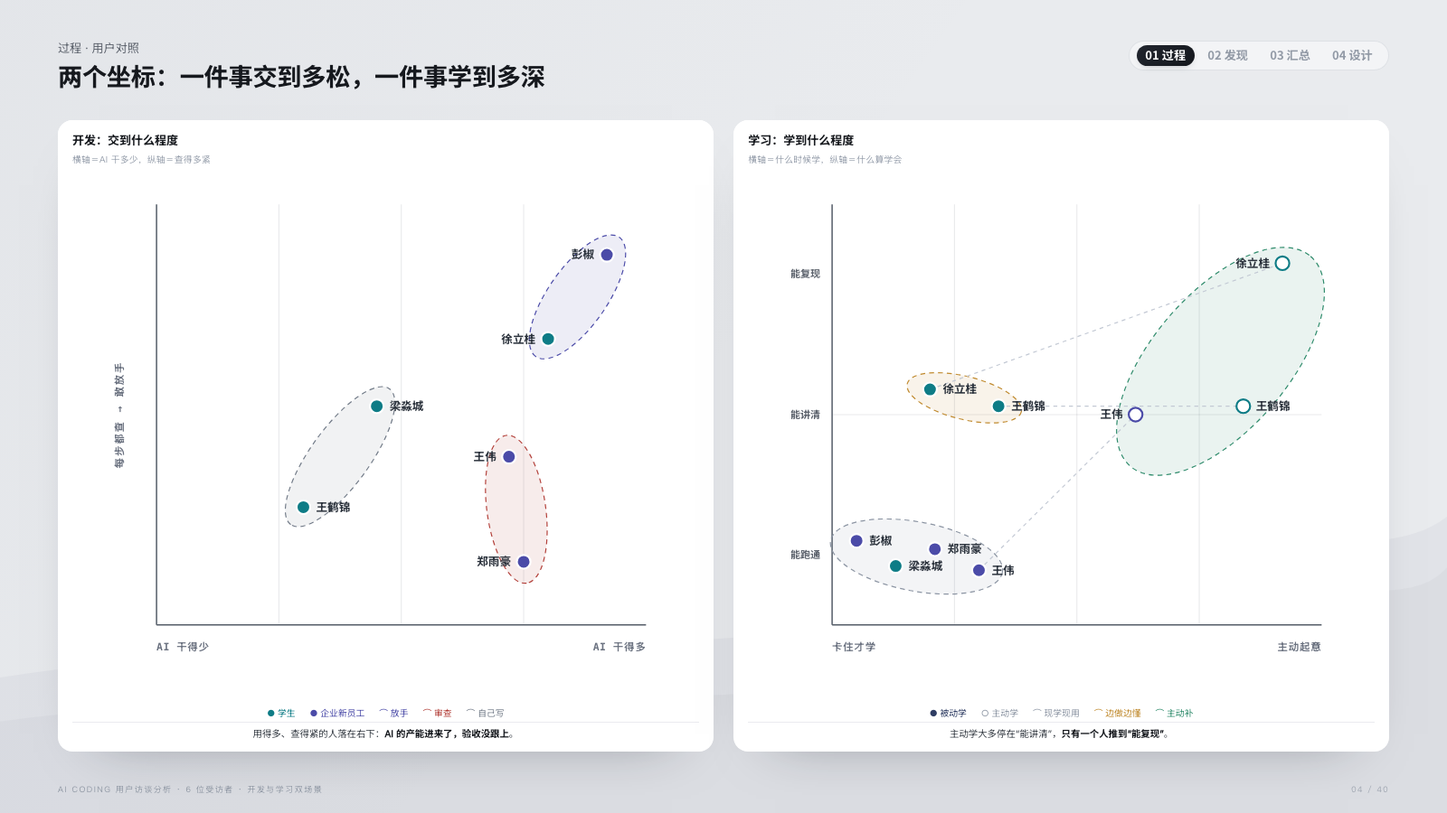
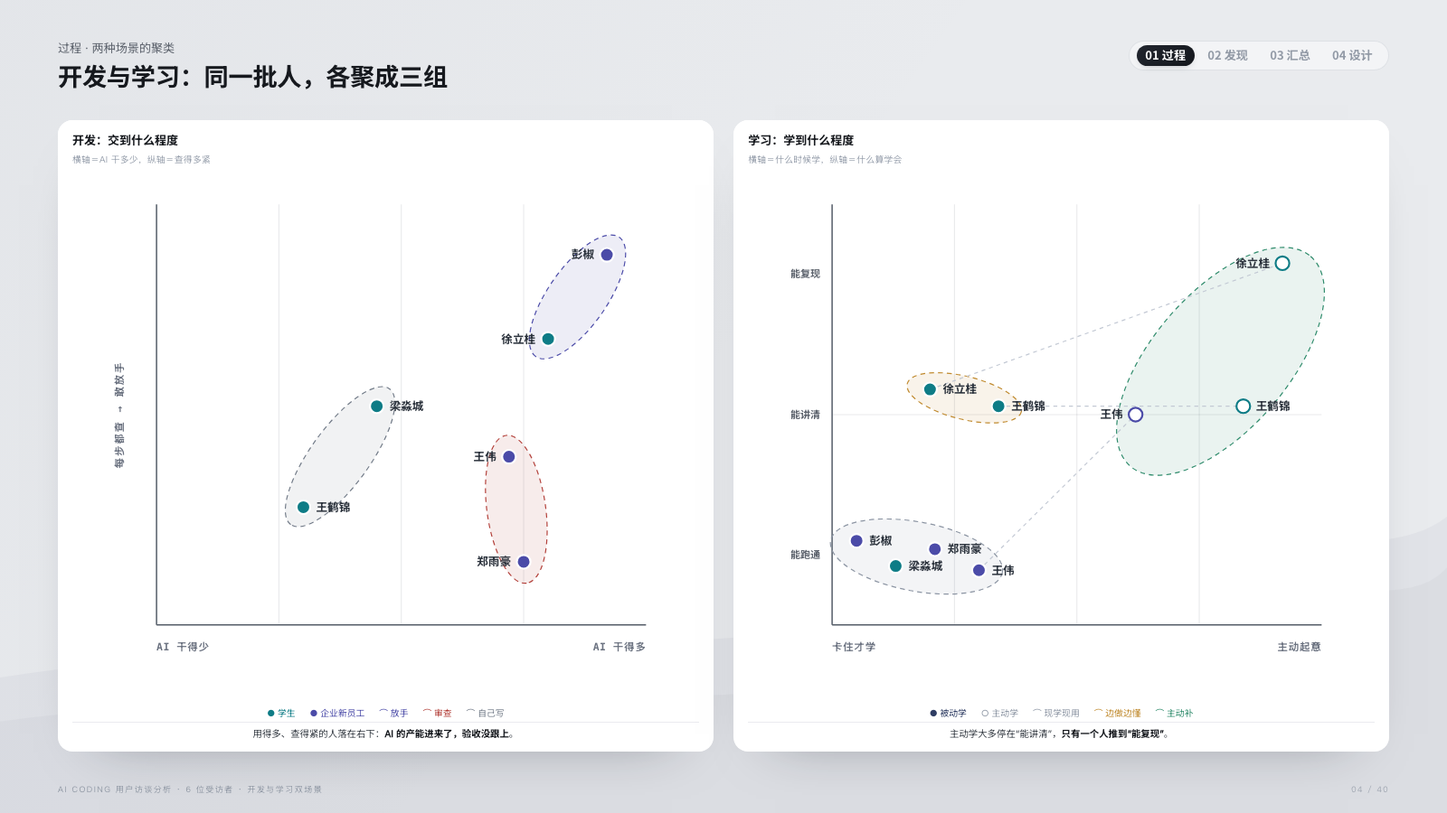
copy: 双坐标页标题改为聚类口径——同一批人，开发与学习各聚成三组

Changed region(s): [[0.0312, 0.0311, 0.375, 0.1244]]

diff --git a/outputs/019fc599-4de5-77a1-9612-6cbb4caa6090/AI-Coding访谈分析/_proto/介入方式对比.html b/outputs/019fc599-4de5-77a1-9612-6cbb4caa6090/AI-Coding访谈分析/_proto/介入方式对比.html
@@ -1171,7 +1171,7 @@ body.overview #panel,body.overview #toggle{display:none!important}
   <div class="tl-legend"><span><i class="dot2"></i>深度介入</span><span><i class="dot1"></i>轻介入 / 抽查</span><span>线＝这段在他的视野里</span></div>
   <div class="proto-take">彭椒和王伟是两个极端：<b>一个只在终点回来，一个每一步都在</b>；中间的人按任务风险各不相同。</div>
   <div class="proto-note">介入点由研究者据访谈整理；同一阶段内不区分先后顺序。</div>
-</div></div><div class="pfoot"><span>AI Coding 用户访谈分析 · 6 位受访者 · 开发与学习双场景</span></div></section><section class="slide s-gray"><div class="head"><div class="head-l"><div class="brand"><span class="ttl">一条任务的全景：AI 卡在工具和知识之间</span></div><div class="subttl">过程 · 全景（七类参与者）</div></div><div class="section-tabs" aria-label="当前章节"><span class="">01 过程</span><span class="">02 发现</span><span class="active">03 汇总</span><span class="">04 设计</span></div></div><div class="body-area"><div class="seq2"><div class="seq2-main"><svg viewBox="0 0 1600 842" role="img" aria-label="一条任务的全景：AI 卡在工具和知识之间" font-family="HarmonyOS Sans SC, Noto Sans SC, sans-serif"><defs><marker id="arr" viewBox="0 0 10 10" refX="9" refY="5" markerWidth="7" markerHeight="7" orient="auto"><path d="M0,0 L10,5 L0,10" fill="none" stroke="#8C97A5" stroke-width="1.6"/></marker><marker id="arrLoop" viewBox="0 0 10 10" refX="9" refY="5" markerWidth="7" markerHeight="7" orient="auto"><path d="M0,0 L10,5 L0,10" fill="none" stroke="#2F5FA8" stroke-width="1.6"/></marker><marker id="arrRed" viewBox="0 0 10 10" refX="9" refY="5" markerWidth="7" markerHeight="7" orient="auto"><path d="M0,0 L10,5 L0,10" fill="none" stroke="#C0392B" stroke-width="1.6"/></marker></defs><rect x="8" y="69" width="118" height="108" rx="7" fill="#FFFFFF" fill-opacity=".5"/><circle cx="14" cy="82" r="3.4" fill="#2F3D63"/><text x="22" y="87" font-size="11.5" fill="#2F3844">01 开工</text><text x="22" y="102" font-size="9.5" fill="#2F3D63">人主导</text><rect x="8" y="177" width="118" height="156" rx="7" fill="#FFFFFF" fill-opacity=".5"/><circle cx="14" cy="190" r="3.4" fill="#2F3D63"/><text x="22" y="195" font-size="11.5" fill="#2F3844">02 找知识</text><text x="22" y="210" font-size="9.5" fill="#2F3D63">人主导</text><rect x="8" y="333" width="118" height="108" rx="7" fill="#FFFFFF" fill-opacity=".5"/><circle cx="14" cy="346" r="3.4" fill="#2F3D63"/><text x="22" y="351" font-size="11.5" fill="#2F3844">03 交办</text><text x="22" y="366" font-size="9.5" fill="#2F3D63">人主导</text><rect x="8" y="441" width="118" height="108" rx="7" fill="#FFFFFF" fill-opacity=".5"/><circle cx="14" cy="454" r="3.4" fill="#6B5BA8"/><text x="22" y="459" font-size="11.5" fill="#2F3844">04 AI 执行</text><text x="22" y="474" font-size="9.5" fill="#6B5BA8">AI 主导</text><rect x="8" y="549" width="118" height="142" rx="7" fill="#FFFFFF" fill-opacity=".5"/><circle cx="14" cy="562" r="3.4" fill="#2F3D63"/><text x="22" y="567" font-size="11.5" fill="#2F3844">05 验收</text><text x="22" y="582" font-size="9.5" fill="#2F3D63">人主导</text><rect x="8" y="691" width="118" height="132" rx="7" fill="#FFFFFF" fill-opacity=".5"/><circle cx="14" cy="704" r="3.4" fill="#2F3D63"/><text x="22" y="709" font-size="11.5" fill="#2F3844">06 沉淀</text><text x="22" y="724" font-size="9.5" fill="#2F3D63">人主导</text><line x1="248.0" y1="56" x2="248.0" y2="836" stroke="#B4BDC9" stroke-width="1.3" stroke-dasharray="5 4"/><rect x="174.0" y="14" width="148" height="34" rx="9" fill="#2F3D63"/><text x="248.0" y="36" font-size="13.5" font-weight="600" fill="#fff" text-anchor="middle">开发者</text><line x1="452.0" y1="56" x2="452.0" y2="836" stroke="#B4BDC9" stroke-width="1.3" stroke-dasharray="5 4"/><rect x="378.0" y="14" width="148" height="34" rx="9" fill="#6B5BA8"/><text x="452.0" y="36" font-size="13.5" font-weight="600" fill="#fff" text-anchor="middle">AI 助手</text><line x1="656.0" y1="56" x2="656.0" y2="836" stroke="#B4BDC9" stroke-width="1.3" stroke-dasharray="5 4"/><rect x="582.0" y="14" width="148" height="34" rx="9" fill="#3F7D72"/><text x="656.0" y="36" font-size="13.5" font-weight="600" fill="#fff" text-anchor="middle">环境与工具</text><line x1="860.0" y1="56" x2="860.0" y2="836" stroke="#B4BDC9" stroke-width="1.3" stroke-dasharray="5 4"/><rect x="786.0" y="14" width="148" height="34" rx="9" fill="#8A6A3C"/><text x="860.0" y="36" font-size="13.5" font-weight="600" fill="#fff" text-anchor="middle">昇腾社区官网</text><line x1="1064.0" y1="56" x2="1064.0" y2="836" stroke="#B4BDC9" stroke-width="1.3" stroke-dasharray="5 4"/><rect x="990.0" y="14" width="148" height="34" rx="9" fill="#7B8A3C"/><text x="1064.0" y="36" font-size="13.5" font-weight="600" fill="#fff" text-anchor="middle">GitHub / GitCode</text><line x1="1268.0" y1="56" x2="1268.0" y2="836" stroke="#B4BDC9" stroke-width="1.3" stroke-dasharray="5 4"/><rect x="1194.0" y="14" width="148" height="34" rx="9" fill="#9C6B8A"/><text x="1268.0" y="36" font-size="13.5" font-weight="600" fill="#fff" text-anchor="middle">其他知识来源</text><line x1="1472.0" y1="56" x2="1472.0" y2="836" stroke="#B4BDC9" stroke-width="1.3" stroke-dasharray="5 4"/><rect x="1398.0" y="14" width="148" height="34" rx="9" fill="#45536B"/><text x="1472.0" y="36" font-size="13.5" font-weight="600" fill="#fff" text-anchor="middle">团队</text><g><title>企业接需求单，学生从课题里切出能做的任务</title><rect x="164.0" y="78" width="168" height="30" rx="8" fill="#fff" stroke="#2F3D63" stroke-width="1.4"/><text x="248.0" y="97" font-size="11.5" fill="#2C333B" text-anchor="middle">接需求 / 切题目</text></g><g><title>开发者 → 团队：要需求与验收标准</title><line x1="261.0" y1="130" x2="1461.0" y2="130" stroke="#8C97A5" stroke-width="1.8" marker-end="url(#arr)"/><text x="274.0" y="122" font-size="10.5" fill="#2F3844" text-anchor="start">要需求与验收标准</text><circle cx="248.0" cy="130" r="9" fill="#fff" stroke="#2F3D63" stroke-width="1.6"/><text x="248.0" y="133" font-size="8" font-weight="700" fill="#2F3D63" text-anchor="middle">E1</text></g><g><title>团队 → 开发者：需求单 / 导师目标</title><line x1="1459.0" y1="154" x2="259.0" y2="154" stroke="#8C97A5" stroke-width="1.8" marker-end="url(#arr)"/><text x="1446.0" y="146" font-size="10.5" fill="#2F3844" text-anchor="end">需求单 / 导师目标</text><circle cx="1472.0" cy="154" r="9" fill="#fff" stroke="#45536B" stroke-width="1.6"/><text x="1472.0" y="157" font-size="8" font-weight="700" fill="#45536B" text-anchor="middle">E1</text></g><g><title>"单个 API 有文档，API 之间怎么配合没有"——两份知识要人拼起来</title><rect x="164.0" y="186" width="168" height="30" rx="8" fill="#fff" stroke="#2F3D63" stroke-width="1.4"/><text x="248.0" y="205" font-size="11.5" fill="#2C333B" text-anchor="middle">自己查：官网看定义，仓库看用法</text></g><g><title>开发者 → 昇腾社区官网：查接口 / 工具指南</title><line x1="261.0" y1="238" x2="849.0" y2="238" stroke="#8C97A5" stroke-width="1.8" marker-end="url(#arr)"/><text x="274.0" y="230" font-size="10.5" fill="#2F3844" text-anchor="start">查接口 / 工具指南</text><circle cx="248.0" cy="238" r="9" fill="#fff" stroke="#2F3D63" stroke-width="1.6"/><text x="248.0" y="241" font-size="8" font-weight="700" fill="#2F3D63" text-anchor="middle">E2</text></g><g><title>昇腾社区官网 → 开发者：定义、参数、限制</title><line x1="847.0" y1="262" x2="259.0" y2="262" stroke="#8C97A5" stroke-width="1.8" marker-end="url(#arr)"/><text x="834.0" y="254" font-size="10.5" fill="#2F3844" text-anchor="end">定义、参数、限制</text><circle cx="860.0" cy="262" r="9" fill="#fff" stroke="#8A6A3C" stroke-width="1.6"/><text x="860.0" y="265" font-size="8" font-weight="700" fill="#8A6A3C" text-anchor="middle">E2</text></g><g><title>开发者 → GitHub / GitCode：找样例、翻 issue</title><line x1="261.0" y1="286" x2="1053.0" y2="286" stroke="#8C97A5" stroke-width="1.8" marker-end="url(#arr)"/><text x="274.0" y="278" font-size="10.5" fill="#2F3844" text-anchor="start">找样例、翻 issue</text><circle cx="248.0" cy="286" r="9" fill="#fff" stroke="#2F3D63" stroke-width="1.6"/><text x="248.0" y="289" font-size="8" font-weight="700" fill="#2F3D63" text-anchor="middle">E2</text></g><g><title>GitHub / GitCode → 开发者：别人怎么组合</title><line x1="1051.0" y1="310" x2="259.0" y2="310" stroke="#8C97A5" stroke-width="1.8" marker-end="url(#arr)"/><text x="1038.0" y="302" font-size="10.5" fill="#2F3844" text-anchor="end">别人怎么组合</text><circle cx="1064.0" cy="310" r="9" fill="#fff" stroke="#7B8A3C" stroke-width="1.6"/><text x="1064.0" y="313" font-size="8" font-weight="700" fill="#7B8A3C" text-anchor="middle">E2</text></g><g><title>详设 + 文档片段 + 样例链接，全靠人贴</title><rect x="164.0" y="342" width="168" height="30" rx="8" fill="#fff" stroke="#2F3D63" stroke-width="1.4"/><text x="248.0" y="361" font-size="11.5" fill="#2C333B" text-anchor="middle">把知识搬进对话</text></g><g><title>开发者 → 其他知识来源：查论文 / 内部 wiki</title><line x1="261.0" y1="394" x2="1257.0" y2="394" stroke="#8C97A5" stroke-width="1.8" marker-end="url(#arr)"/><text x="274.0" y="386" font-size="10.5" fill="#2F3844" text-anchor="start">查论文 / 内部 wiki</text><circle cx="248.0" cy="394" r="9" fill="#fff" stroke="#2F3D63" stroke-width="1.6"/><text x="248.0" y="397" font-size="8" font-weight="700" fill="#2F3D63" text-anchor="middle">E3</text></g><g><title>开发者 → AI 助手：AI 拿到的是人加工过的二手知识</title><line x1="261.0" y1="418" x2="441.0" y2="418" stroke="#C0392B" stroke-width="1.8" marker-end="url(#arrRed)"/><text x="274.0" y="410" font-size="10.5" fill="#B3403A" text-anchor="start">贴详设 + 文档 + 样例</text><circle cx="248.0" cy="418" r="9" fill="#fff" stroke="#2F3D63" stroke-width="1.6"/><text x="248.0" y="421" font-size="8" font-weight="700" fill="#2F3D63" text-anchor="middle">E3</text></g><g><title>AI 能碰到的是文件系统和终端，碰不到专业工具与文档站</title><rect x="368.0" y="450" width="168" height="30" rx="8" fill="#fff" stroke="#6B5BA8" stroke-width="1.4"/><text x="452.0" y="469" font-size="11.5" fill="#2C333B" text-anchor="middle">读仓库、写、跑</text></g><g><title>AI 助手 → 环境与工具：读文件 / 跑命令</title><line x1="465.0" y1="502" x2="645.0" y2="502" stroke="#8C97A5" stroke-width="1.8" marker-end="url(#arr)"/><text x="478.0" y="494" font-size="10.5" fill="#2F3844" text-anchor="start">读文件 / 跑命令</text><circle cx="452.0" cy="502" r="9" fill="#fff" stroke="#6B5BA8" stroke-width="1.6"/><text x="452.0" y="505" font-size="8" font-weight="700" fill="#6B5BA8" text-anchor="middle">E4</text></g><g><title>环境与工具 → AI 助手：报错与日志</title><line x1="643.0" y1="526" x2="463.0" y2="526" stroke="#8C97A5" stroke-width="1.8" marker-end="url(#arr)"/><text x="630.0" y="518" font-size="10.5" fill="#2F3844" text-anchor="end">报错与日志</text><circle cx="656.0" cy="526" r="9" fill="#fff" stroke="#3F7D72" stroke-width="1.6"/><text x="656.0" y="529" font-size="8" font-weight="700" fill="#3F7D72" text-anchor="middle">E4</text></g><g><title>精度对 golden、性能对 baseline，人看工具输出下判断</title><rect x="240.5" y="568" width="15" height="34" rx="7" fill="#C79433"/><text x="248.0" y="563" font-size="10.8" fill="#5A4212" text-anchor="middle">过没过？</text></g><g><title>开发者 → 环境与工具：跑测试 / msOpProf / Insight</title><line x1="261.0" y1="616" x2="645.0" y2="616" stroke="#8C97A5" stroke-width="1.8" marker-end="url(#arr)"/><text x="274.0" y="608" font-size="10.5" fill="#2F3844" text-anchor="start">跑测试 / msOpProf / Insight</text><circle cx="248.0" cy="616" r="9" fill="#fff" stroke="#2F3D63" stroke-width="1.6"/><text x="248.0" y="619" font-size="8" font-weight="700" fill="#2F3D63" text-anchor="middle">E5</text></g><g><title>环境与工具 → 开发者：指标与指令流水</title><line x1="643.0" y1="640" x2="259.0" y2="640" stroke="#8C97A5" stroke-width="1.8" marker-end="url(#arr)"/><text x="630.0" y="632" font-size="10.5" fill="#2F3844" text-anchor="end">指标与指令流水</text><circle cx="656.0" cy="640" r="9" fill="#fff" stroke="#3F7D72" stroke-width="1.6"/><text x="656.0" y="643" font-size="8" font-weight="700" fill="#3F7D72" text-anchor="middle">E5</text></g><g><title>开发者 → AI 助手：工具输出没有直接进 AI 上下文</title><line x1="261.0" y1="664" x2="441.0" y2="664" stroke="#C0392B" stroke-width="1.8" marker-end="url(#arrRed)"/><text x="274.0" y="656" font-size="10.5" fill="#B3403A" text-anchor="start">把性能数据贴回来让它改</text><circle cx="248.0" cy="664" r="9" fill="#fff" stroke="#2F3D63" stroke-width="1.6"/><text x="248.0" y="667" font-size="8" font-weight="700" fill="#2F3D63" text-anchor="middle">E5</text></g><g><title>详设回写、wiki 沉淀、committer 检视</title><rect x="164.0" y="700" width="168" height="30" rx="8" fill="#fff" stroke="#2F3D63" stroke-width="1.4"/><text x="248.0" y="719" font-size="11.5" fill="#2C333B" text-anchor="middle">写回、提 PR、等评审</text></g><g><title>开发者 → 团队：提 PR，等 committer</title><line x1="261.0" y1="752" x2="1461.0" y2="752" stroke="#8C97A5" stroke-width="1.8" marker-end="url(#arr)"/><text x="274.0" y="744" font-size="10.5" fill="#2F3844" text-anchor="start">提 PR，等 committer</text><circle cx="248.0" cy="752" r="9" fill="#fff" stroke="#2F3D63" stroke-width="1.6"/><text x="248.0" y="755" font-size="8" font-weight="700" fill="#2F3D63" text-anchor="middle">E6</text></g><g><title>团队 → 开发者：评审意见</title><line x1="1459.0" y1="776" x2="259.0" y2="776" stroke="#8C97A5" stroke-width="1.8" marker-end="url(#arr)"/><text x="1446.0" y="768" font-size="10.5" fill="#2F3844" text-anchor="end">评审意见</text><circle cx="1472.0" cy="776" r="9" fill="#fff" stroke="#45536B" stroke-width="1.6"/><text x="1472.0" y="779" font-size="8" font-weight="700" fill="#45536B" text-anchor="middle">E6</text></g><g><title>开发者 → 其他知识来源：沉淀到 wiki / 设计文档</title><line x1="261.0" y1="800" x2="1257.0" y2="800" stroke="#8C97A5" stroke-width="1.8" marker-end="url(#arr)"/><text x="274.0" y="792" font-size="10.5" fill="#2F3844" text-anchor="start">沉淀到 wiki / 设计文档</text><circle cx="248.0" cy="800" r="9" fill="#fff" stroke="#2F3D63" stroke-width="1.6"/><text x="248.0" y="803" font-size="8" font-weight="700" fill="#2F3D63" text-anchor="middle">E6</text></g></svg></div><aside class="seq2-rail"><div class="sr-i"><div class="sr-k">出现条件</div><div class="sr-v">一条真实任务从需求走到合入。<b>AI 只连到文件系统和终端</b>，专业工具与知识源都在它够不到的地方。</div></div><div class="sr-i"><div class="sr-k">人的位置</div><div class="sr-v">除“AI 执行”一段，其余五段都在人这边：<b>人既是执行者，也是运输工</b>。</div></div><div class="sr-i"><div class="sr-k">关键交接</div><div class="sr-v">两组红色箭头＝人肉中转：知识搬进去、工具结果搬回来</div></div><div class="sr-lg"><div class="seq2-legend"><span class="li"><i class="sw" style="background:#2F3D63;border-color:#2F3D63"></i>开发者</span><span class="li"><i class="sw" style="background:#6B5BA8;border-color:#6B5BA8"></i>AI 助手</span><span class="li"><i class="sw" style="background:#3F7D72;border-color:#3F7D72"></i>环境与工具</span><span class="li"><i class="sw" style="background:#8A6A3C;border-color:#8A6A3C"></i>昇腾社区官网</span><span class="li"><i class="sw" style="background:#7B8A3C;border-color:#7B8A3C"></i>GitHub / GitCode</span><span class="li"><i class="sw" style="background:#9C6B8A;border-color:#9C6B8A"></i>其他知识来源</span><span class="li"><i class="sw" style="background:#45536B;border-color:#45536B"></i>团队</span></div><div class="seq2-legend"><span class="li"><i class="ln"></i>消息方向</span><span class="li"><i class="ci">E</i>事件起点</span><span class="li"><i class="sw" style="background:#fff;border-color:#8C97A5"></i>本地动作</span><span class="li"><i class="sw" style="background:#C79433;border-color:#C79433"></i>需人裁定</span><span class="li"><i class="ln dash"></i>回退 / 换方向</span></div></div><div class="sr-note">阶段带与“人主导 / AI 主导”由事件顺序推导</div></aside></div></div><div class="pfoot"><span>AI Coding 用户访谈分析 · 6 位受访者 · 开发与学习双场景</span></div></section><section class="slide s-gray"><div class="head"><div class="head-l"><div class="brand"><span class="ttl">两个坐标：一件事交到多松，一件事学到多深</span></div><div class="subttl">过程 · 用户对照</div></div><div class="section-tabs" aria-label="当前章节"><span class="active">01 过程</span><span class="">02 发现</span><span class="">03 汇总</span><span class="">04 设计</span></div></div><div class="body-area">
+</div></div><div class="pfoot"><span>AI Coding 用户访谈分析 · 6 位受访者 · 开发与学习双场景</span></div></section><section class="slide s-gray"><div class="head"><div class="head-l"><div class="brand"><span class="ttl">一条任务的全景：AI 卡在工具和知识之间</span></div><div class="subttl">过程 · 全景（七类参与者）</div></div><div class="section-tabs" aria-label="当前章节"><span class="">01 过程</span><span class="">02 发现</span><span class="active">03 汇总</span><span class="">04 设计</span></div></div><div class="body-area"><div class="seq2"><div class="seq2-main"><svg viewBox="0 0 1600 842" role="img" aria-label="一条任务的全景：AI 卡在工具和知识之间" font-family="HarmonyOS Sans SC, Noto Sans SC, sans-serif"><defs><marker id="arr" viewBox="0 0 10 10" refX="9" refY="5" markerWidth="7" markerHeight="7" orient="auto"><path d="M0,0 L10,5 L0,10" fill="none" stroke="#8C97A5" stroke-width="1.6"/></marker><marker id="arrLoop" viewBox="0 0 10 10" refX="9" refY="5" markerWidth="7" markerHeight="7" orient="auto"><path d="M0,0 L10,5 L0,10" fill="none" stroke="#2F5FA8" stroke-width="1.6"/></marker><marker id="arrRed" viewBox="0 0 10 10" refX="9" refY="5" markerWidth="7" markerHeight="7" orient="auto"><path d="M0,0 L10,5 L0,10" fill="none" stroke="#C0392B" stroke-width="1.6"/></marker></defs><rect x="8" y="69" width="118" height="108" rx="7" fill="#FFFFFF" fill-opacity=".5"/><circle cx="14" cy="82" r="3.4" fill="#2F3D63"/><text x="22" y="87" font-size="11.5" fill="#2F3844">01 开工</text><text x="22" y="102" font-size="9.5" fill="#2F3D63">人主导</text><rect x="8" y="177" width="118" height="156" rx="7" fill="#FFFFFF" fill-opacity=".5"/><circle cx="14" cy="190" r="3.4" fill="#2F3D63"/><text x="22" y="195" font-size="11.5" fill="#2F3844">02 找知识</text><text x="22" y="210" font-size="9.5" fill="#2F3D63">人主导</text><rect x="8" y="333" width="118" height="108" rx="7" fill="#FFFFFF" fill-opacity=".5"/><circle cx="14" cy="346" r="3.4" fill="#2F3D63"/><text x="22" y="351" font-size="11.5" fill="#2F3844">03 交办</text><text x="22" y="366" font-size="9.5" fill="#2F3D63">人主导</text><rect x="8" y="441" width="118" height="108" rx="7" fill="#FFFFFF" fill-opacity=".5"/><circle cx="14" cy="454" r="3.4" fill="#6B5BA8"/><text x="22" y="459" font-size="11.5" fill="#2F3844">04 AI 执行</text><text x="22" y="474" font-size="9.5" fill="#6B5BA8">AI 主导</text><rect x="8" y="549" width="118" height="142" rx="7" fill="#FFFFFF" fill-opacity=".5"/><circle cx="14" cy="562" r="3.4" fill="#2F3D63"/><text x="22" y="567" font-size="11.5" fill="#2F3844">05 验收</text><text x="22" y="582" font-size="9.5" fill="#2F3D63">人主导</text><rect x="8" y="691" width="118" height="132" rx="7" fill="#FFFFFF" fill-opacity=".5"/><circle cx="14" cy="704" r="3.4" fill="#2F3D63"/><text x="22" y="709" font-size="11.5" fill="#2F3844">06 沉淀</text><text x="22" y="724" font-size="9.5" fill="#2F3D63">人主导</text><line x1="248.0" y1="56" x2="248.0" y2="836" stroke="#B4BDC9" stroke-width="1.3" stroke-dasharray="5 4"/><rect x="174.0" y="14" width="148" height="34" rx="9" fill="#2F3D63"/><text x="248.0" y="36" font-size="13.5" font-weight="600" fill="#fff" text-anchor="middle">开发者</text><line x1="452.0" y1="56" x2="452.0" y2="836" stroke="#B4BDC9" stroke-width="1.3" stroke-dasharray="5 4"/><rect x="378.0" y="14" width="148" height="34" rx="9" fill="#6B5BA8"/><text x="452.0" y="36" font-size="13.5" font-weight="600" fill="#fff" text-anchor="middle">AI 助手</text><line x1="656.0" y1="56" x2="656.0" y2="836" stroke="#B4BDC9" stroke-width="1.3" stroke-dasharray="5 4"/><rect x="582.0" y="14" width="148" height="34" rx="9" fill="#3F7D72"/><text x="656.0" y="36" font-size="13.5" font-weight="600" fill="#fff" text-anchor="middle">环境与工具</text><line x1="860.0" y1="56" x2="860.0" y2="836" stroke="#B4BDC9" stroke-width="1.3" stroke-dasharray="5 4"/><rect x="786.0" y="14" width="148" height="34" rx="9" fill="#8A6A3C"/><text x="860.0" y="36" font-size="13.5" font-weight="600" fill="#fff" text-anchor="middle">昇腾社区官网</text><line x1="1064.0" y1="56" x2="1064.0" y2="836" stroke="#B4BDC9" stroke-width="1.3" stroke-dasharray="5 4"/><rect x="990.0" y="14" width="148" height="34" rx="9" fill="#7B8A3C"/><text x="1064.0" y="36" font-size="13.5" font-weight="600" fill="#fff" text-anchor="middle">GitHub / GitCode</text><line x1="1268.0" y1="56" x2="1268.0" y2="836" stroke="#B4BDC9" stroke-width="1.3" stroke-dasharray="5 4"/><rect x="1194.0" y="14" width="148" height="34" rx="9" fill="#9C6B8A"/><text x="1268.0" y="36" font-size="13.5" font-weight="600" fill="#fff" text-anchor="middle">其他知识来源</text><line x1="1472.0" y1="56" x2="1472.0" y2="836" stroke="#B4BDC9" stroke-width="1.3" stroke-dasharray="5 4"/><rect x="1398.0" y="14" width="148" height="34" rx="9" fill="#45536B"/><text x="1472.0" y="36" font-size="13.5" font-weight="600" fill="#fff" text-anchor="middle">团队</text><g><title>企业接需求单，学生从课题里切出能做的任务</title><rect x="164.0" y="78" width="168" height="30" rx="8" fill="#fff" stroke="#2F3D63" stroke-width="1.4"/><text x="248.0" y="97" font-size="11.5" fill="#2C333B" text-anchor="middle">接需求 / 切题目</text></g><g><title>开发者 → 团队：要需求与验收标准</title><line x1="261.0" y1="130" x2="1461.0" y2="130" stroke="#8C97A5" stroke-width="1.8" marker-end="url(#arr)"/><text x="274.0" y="122" font-size="10.5" fill="#2F3844" text-anchor="start">要需求与验收标准</text><circle cx="248.0" cy="130" r="9" fill="#fff" stroke="#2F3D63" stroke-width="1.6"/><text x="248.0" y="133" font-size="8" font-weight="700" fill="#2F3D63" text-anchor="middle">E1</text></g><g><title>团队 → 开发者：需求单 / 导师目标</title><line x1="1459.0" y1="154" x2="259.0" y2="154" stroke="#8C97A5" stroke-width="1.8" marker-end="url(#arr)"/><text x="1446.0" y="146" font-size="10.5" fill="#2F3844" text-anchor="end">需求单 / 导师目标</text><circle cx="1472.0" cy="154" r="9" fill="#fff" stroke="#45536B" stroke-width="1.6"/><text x="1472.0" y="157" font-size="8" font-weight="700" fill="#45536B" text-anchor="middle">E1</text></g><g><title>"单个 API 有文档，API 之间怎么配合没有"——两份知识要人拼起来</title><rect x="164.0" y="186" width="168" height="30" rx="8" fill="#fff" stroke="#2F3D63" stroke-width="1.4"/><text x="248.0" y="205" font-size="11.5" fill="#2C333B" text-anchor="middle">自己查：官网看定义，仓库看用法</text></g><g><title>开发者 → 昇腾社区官网：查接口 / 工具指南</title><line x1="261.0" y1="238" x2="849.0" y2="238" stroke="#8C97A5" stroke-width="1.8" marker-end="url(#arr)"/><text x="274.0" y="230" font-size="10.5" fill="#2F3844" text-anchor="start">查接口 / 工具指南</text><circle cx="248.0" cy="238" r="9" fill="#fff" stroke="#2F3D63" stroke-width="1.6"/><text x="248.0" y="241" font-size="8" font-weight="700" fill="#2F3D63" text-anchor="middle">E2</text></g><g><title>昇腾社区官网 → 开发者：定义、参数、限制</title><line x1="847.0" y1="262" x2="259.0" y2="262" stroke="#8C97A5" stroke-width="1.8" marker-end="url(#arr)"/><text x="834.0" y="254" font-size="10.5" fill="#2F3844" text-anchor="end">定义、参数、限制</text><circle cx="860.0" cy="262" r="9" fill="#fff" stroke="#8A6A3C" stroke-width="1.6"/><text x="860.0" y="265" font-size="8" font-weight="700" fill="#8A6A3C" text-anchor="middle">E2</text></g><g><title>开发者 → GitHub / GitCode：找样例、翻 issue</title><line x1="261.0" y1="286" x2="1053.0" y2="286" stroke="#8C97A5" stroke-width="1.8" marker-end="url(#arr)"/><text x="274.0" y="278" font-size="10.5" fill="#2F3844" text-anchor="start">找样例、翻 issue</text><circle cx="248.0" cy="286" r="9" fill="#fff" stroke="#2F3D63" stroke-width="1.6"/><text x="248.0" y="289" font-size="8" font-weight="700" fill="#2F3D63" text-anchor="middle">E2</text></g><g><title>GitHub / GitCode → 开发者：别人怎么组合</title><line x1="1051.0" y1="310" x2="259.0" y2="310" stroke="#8C97A5" stroke-width="1.8" marker-end="url(#arr)"/><text x="1038.0" y="302" font-size="10.5" fill="#2F3844" text-anchor="end">别人怎么组合</text><circle cx="1064.0" cy="310" r="9" fill="#fff" stroke="#7B8A3C" stroke-width="1.6"/><text x="1064.0" y="313" font-size="8" font-weight="700" fill="#7B8A3C" text-anchor="middle">E2</text></g><g><title>详设 + 文档片段 + 样例链接，全靠人贴</title><rect x="164.0" y="342" width="168" height="30" rx="8" fill="#fff" stroke="#2F3D63" stroke-width="1.4"/><text x="248.0" y="361" font-size="11.5" fill="#2C333B" text-anchor="middle">把知识搬进对话</text></g><g><title>开发者 → 其他知识来源：查论文 / 内部 wiki</title><line x1="261.0" y1="394" x2="1257.0" y2="394" stroke="#8C97A5" stroke-width="1.8" marker-end="url(#arr)"/><text x="274.0" y="386" font-size="10.5" fill="#2F3844" text-anchor="start">查论文 / 内部 wiki</text><circle cx="248.0" cy="394" r="9" fill="#fff" stroke="#2F3D63" stroke-width="1.6"/><text x="248.0" y="397" font-size="8" font-weight="700" fill="#2F3D63" text-anchor="middle">E3</text></g><g><title>开发者 → AI 助手：AI 拿到的是人加工过的二手知识</title><line x1="261.0" y1="418" x2="441.0" y2="418" stroke="#C0392B" stroke-width="1.8" marker-end="url(#arrRed)"/><text x="274.0" y="410" font-size="10.5" fill="#B3403A" text-anchor="start">贴详设 + 文档 + 样例</text><circle cx="248.0" cy="418" r="9" fill="#fff" stroke="#2F3D63" stroke-width="1.6"/><text x="248.0" y="421" font-size="8" font-weight="700" fill="#2F3D63" text-anchor="middle">E3</text></g><g><title>AI 能碰到的是文件系统和终端，碰不到专业工具与文档站</title><rect x="368.0" y="450" width="168" height="30" rx="8" fill="#fff" stroke="#6B5BA8" stroke-width="1.4"/><text x="452.0" y="469" font-size="11.5" fill="#2C333B" text-anchor="middle">读仓库、写、跑</text></g><g><title>AI 助手 → 环境与工具：读文件 / 跑命令</title><line x1="465.0" y1="502" x2="645.0" y2="502" stroke="#8C97A5" stroke-width="1.8" marker-end="url(#arr)"/><text x="478.0" y="494" font-size="10.5" fill="#2F3844" text-anchor="start">读文件 / 跑命令</text><circle cx="452.0" cy="502" r="9" fill="#fff" stroke="#6B5BA8" stroke-width="1.6"/><text x="452.0" y="505" font-size="8" font-weight="700" fill="#6B5BA8" text-anchor="middle">E4</text></g><g><title>环境与工具 → AI 助手：报错与日志</title><line x1="643.0" y1="526" x2="463.0" y2="526" stroke="#8C97A5" stroke-width="1.8" marker-end="url(#arr)"/><text x="630.0" y="518" font-size="10.5" fill="#2F3844" text-anchor="end">报错与日志</text><circle cx="656.0" cy="526" r="9" fill="#fff" stroke="#3F7D72" stroke-width="1.6"/><text x="656.0" y="529" font-size="8" font-weight="700" fill="#3F7D72" text-anchor="middle">E4</text></g><g><title>精度对 golden、性能对 baseline，人看工具输出下判断</title><rect x="240.5" y="568" width="15" height="34" rx="7" fill="#C79433"/><text x="248.0" y="563" font-size="10.8" fill="#5A4212" text-anchor="middle">过没过？</text></g><g><title>开发者 → 环境与工具：跑测试 / msOpProf / Insight</title><line x1="261.0" y1="616" x2="645.0" y2="616" stroke="#8C97A5" stroke-width="1.8" marker-end="url(#arr)"/><text x="274.0" y="608" font-size="10.5" fill="#2F3844" text-anchor="start">跑测试 / msOpProf / Insight</text><circle cx="248.0" cy="616" r="9" fill="#fff" stroke="#2F3D63" stroke-width="1.6"/><text x="248.0" y="619" font-size="8" font-weight="700" fill="#2F3D63" text-anchor="middle">E5</text></g><g><title>环境与工具 → 开发者：指标与指令流水</title><line x1="643.0" y1="640" x2="259.0" y2="640" stroke="#8C97A5" stroke-width="1.8" marker-end="url(#arr)"/><text x="630.0" y="632" font-size="10.5" fill="#2F3844" text-anchor="end">指标与指令流水</text><circle cx="656.0" cy="640" r="9" fill="#fff" stroke="#3F7D72" stroke-width="1.6"/><text x="656.0" y="643" font-size="8" font-weight="700" fill="#3F7D72" text-anchor="middle">E5</text></g><g><title>开发者 → AI 助手：工具输出没有直接进 AI 上下文</title><line x1="261.0" y1="664" x2="441.0" y2="664" stroke="#C0392B" stroke-width="1.8" marker-end="url(#arrRed)"/><text x="274.0" y="656" font-size="10.5" fill="#B3403A" text-anchor="start">把性能数据贴回来让它改</text><circle cx="248.0" cy="664" r="9" fill="#fff" stroke="#2F3D63" stroke-width="1.6"/><text x="248.0" y="667" font-size="8" font-weight="700" fill="#2F3D63" text-anchor="middle">E5</text></g><g><title>详设回写、wiki 沉淀、committer 检视</title><rect x="164.0" y="700" width="168" height="30" rx="8" fill="#fff" stroke="#2F3D63" stroke-width="1.4"/><text x="248.0" y="719" font-size="11.5" fill="#2C333B" text-anchor="middle">写回、提 PR、等评审</text></g><g><title>开发者 → 团队：提 PR，等 committer</title><line x1="261.0" y1="752" x2="1461.0" y2="752" stroke="#8C97A5" stroke-width="1.8" marker-end="url(#arr)"/><text x="274.0" y="744" font-size="10.5" fill="#2F3844" text-anchor="start">提 PR，等 committer</text><circle cx="248.0" cy="752" r="9" fill="#fff" stroke="#2F3D63" stroke-width="1.6"/><text x="248.0" y="755" font-size="8" font-weight="700" fill="#2F3D63" text-anchor="middle">E6</text></g><g><title>团队 → 开发者：评审意见</title><line x1="1459.0" y1="776" x2="259.0" y2="776" stroke="#8C97A5" stroke-width="1.8" marker-end="url(#arr)"/><text x="1446.0" y="768" font-size="10.5" fill="#2F3844" text-anchor="end">评审意见</text><circle cx="1472.0" cy="776" r="9" fill="#fff" stroke="#45536B" stroke-width="1.6"/><text x="1472.0" y="779" font-size="8" font-weight="700" fill="#45536B" text-anchor="middle">E6</text></g><g><title>开发者 → 其他知识来源：沉淀到 wiki / 设计文档</title><line x1="261.0" y1="800" x2="1257.0" y2="800" stroke="#8C97A5" stroke-width="1.8" marker-end="url(#arr)"/><text x="274.0" y="792" font-size="10.5" fill="#2F3844" text-anchor="start">沉淀到 wiki / 设计文档</text><circle cx="248.0" cy="800" r="9" fill="#fff" stroke="#2F3D63" stroke-width="1.6"/><text x="248.0" y="803" font-size="8" font-weight="700" fill="#2F3D63" text-anchor="middle">E6</text></g></svg></div><aside class="seq2-rail"><div class="sr-i"><div class="sr-k">出现条件</div><div class="sr-v">一条真实任务从需求走到合入。<b>AI 只连到文件系统和终端</b>，专业工具与知识源都在它够不到的地方。</div></div><div class="sr-i"><div class="sr-k">人的位置</div><div class="sr-v">除“AI 执行”一段，其余五段都在人这边：<b>人既是执行者，也是运输工</b>。</div></div><div class="sr-i"><div class="sr-k">关键交接</div><div class="sr-v">两组红色箭头＝人肉中转：知识搬进去、工具结果搬回来</div></div><div class="sr-lg"><div class="seq2-legend"><span class="li"><i class="sw" style="background:#2F3D63;border-color:#2F3D63"></i>开发者</span><span class="li"><i class="sw" style="background:#6B5BA8;border-color:#6B5BA8"></i>AI 助手</span><span class="li"><i class="sw" style="background:#3F7D72;border-color:#3F7D72"></i>环境与工具</span><span class="li"><i class="sw" style="background:#8A6A3C;border-color:#8A6A3C"></i>昇腾社区官网</span><span class="li"><i class="sw" style="background:#7B8A3C;border-color:#7B8A3C"></i>GitHub / GitCode</span><span class="li"><i class="sw" style="background:#9C6B8A;border-color:#9C6B8A"></i>其他知识来源</span><span class="li"><i class="sw" style="background:#45536B;border-color:#45536B"></i>团队</span></div><div class="seq2-legend"><span class="li"><i class="ln"></i>消息方向</span><span class="li"><i class="ci">E</i>事件起点</span><span class="li"><i class="sw" style="background:#fff;border-color:#8C97A5"></i>本地动作</span><span class="li"><i class="sw" style="background:#C79433;border-color:#C79433"></i>需人裁定</span><span class="li"><i class="ln dash"></i>回退 / 换方向</span></div></div><div class="sr-note">阶段带与“人主导 / AI 主导”由事件顺序推导</div></aside></div></div><div class="pfoot"><span>AI Coding 用户访谈分析 · 6 位受访者 · 开发与学习双场景</span></div></section><section class="slide s-gray"><div class="head"><div class="head-l"><div class="brand"><span class="ttl">开发与学习：同一批人，各聚成三组</span></div><div class="subttl">过程 · 两种场景的聚类</div></div><div class="section-tabs" aria-label="当前章节"><span class="active">01 过程</span><span class="">02 发现</span><span class="">03 汇总</span><span class="">04 设计</span></div></div><div class="body-area">
 <div class="two">
   <div class="k-panel two-card">
     <div class="two-h"><b>开发：交到什么程度</b><span>横轴＝AI 干多少，纵轴＝查得多紧</span></div>

diff --git a/outputs/019fc599-4de5-77a1-9612-6cbb4caa6090/AI-Coding访谈分析/_src/d_two.py b/outputs/019fc599-4de5-77a1-9612-6cbb4caa6090/AI-Coding访谈分析/_src/d_two.py
@@ -160,4 +160,4 @@ TWO = slide('''
     <div class="two-t">主动学大多停在“能讲清”，<b>只有一个人推到“能复现”</b>。</div>
   </div>
 </div>''' % (DEV_SVG, LEARN_SVG),
-    '两个坐标：一件事交到多松，一件事学到多深', '过程 · 用户对照', 0)
+    '开发与学习：同一批人，各聚成三组', '过程 · 两种场景的聚类', 0)
